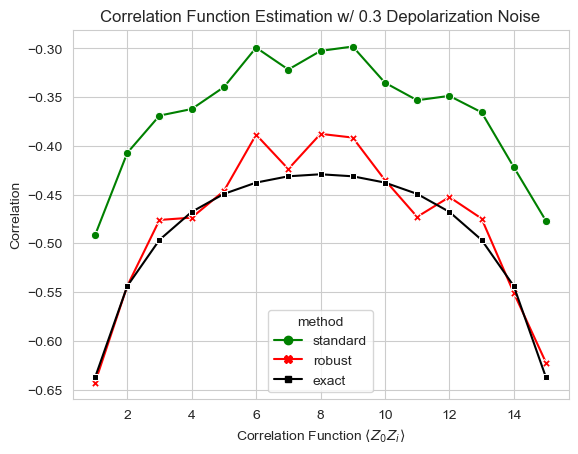
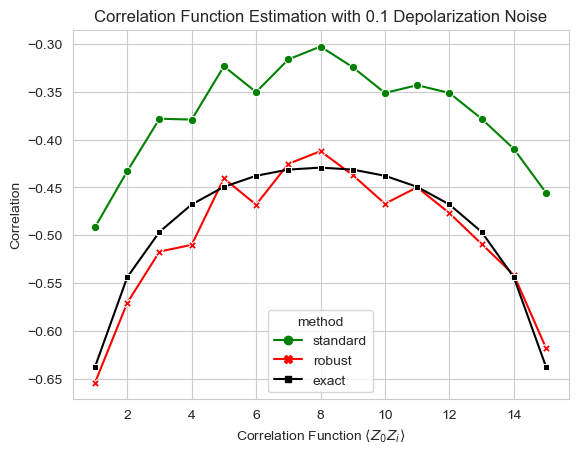
Fetch saved data (for rshadows  ) from https://github.com/Min-Li/mitiq-shadows-storage/tree/main

diff --git a/docs/source/examples/rshadows_tutorial.md b/docs/source/examples/rshadows_tutorial.md
@@ -39,18 +39,15 @@ Whether to run the quantum measurement or directly use the results from the prev
 
 
 ```python
-import zipfile,pickle,io,requests
+import zipfile, pickle, io, requests
 
 run_quantum_processing = False
+repo = "https://github.com/Min-Li/mitiq-shadows-storage/raw/main/"
 if not run_quantum_processing:
-    # Fetch data obtained from a previous run of this tutorial
-    repo = "https://github.com/Min-Li/mitiq-shadows-storage/raw/main/"
-    saved_data_name = 'saved_data-rshadows'
-    url = f'{repo}/{saved_data_name}.zip'
-    response = requests.get(url)
-    zip_data = response.content
-    with zipfile.ZipFile(io.BytesIO(zip_data), 'r') as zf:
-        saved_data = pickle.loads(zf.read(f'{saved_data_name}.pkl'))
+    saved_data_name = "saved_data-rshadows"
+    zip_data = requests.get(f"{repo}/{saved_data_name}.zip").content
+    with zipfile.ZipFile(io.BytesIO(zip_data), "r") as zf:
+        saved_data = pickle.loads(zf.read(f"{saved_data_name}.pkl"))
 ```
 
 The *robust shadow estimation*{cite}`chen2021robust` approach put forth in *Predicting Many Properties of a Quantum System from Very Few Measurements* {cite}`huang2020predicting` exhibits noise resilience. The inherent randomization in the protocol simplifies the noise, transforming it into a Pauli noise channel that can be characterized relatively straightforwardly. Once the noisy channel $\widehat{\mathcal{M}}$ is characterized $\widehat{\mathcal{M}}$, it is incorporated into the channel inversion $\widehat{\mathcal{M}}^{-1}$, resulting in an unbiased state estimator. The sampling error in the determination of the Pauli channel contributes to the variance of this estimator. 
@@ -67,22 +64,31 @@ We focus on the case where $J = g =1$. We use the ground state of such a system 
 
 ```python
 # import groud state of 1-D Ising model w/ periodic boundary condition
-# from tensorflow_quantum.datasets import tfi_chain
-from mitiq.shadows.old.spin_system import tfi_chain, xxz_chain
-
+download_ising_circuits = True
 num_qubits = 8
 qubits: List[cirq.Qid] = cirq.LineQubit.range(num_qubits)
-qbs = cirq.GridQubit.rect(num_qubits, 1)
-circuits, labels, pauli_sums, addinfo = tfi_chain(qbs, "closed")
-lattice_idx = 40  # Critical point where g == 1
-g = addinfo[lattice_idx].g
 
-circuit = circuits[lattice_idx]
-qubit_map = {
-    cirq.GridQubit(i, 0): cirq.LineQubit(i) for i in range(num_qubits)
-}
+if download_ising_circuits:
+    circuit = pickle.loads(
+        requests.get(f"{repo}/1D_Ising_g=1_{num_qubits}qubits.pkl").content
+    )
+    g = 1
 
-circuit = circuit.transform_qubits(qubit_map=qubit_map)
+# or user can import from tensorflow_quantum
+else:
+    from tensorflow_quantum.datasets import tfi_chain
+
+    qbs = cirq.GridQubit.rect(num_qubits, 1)
+    circuits, labels, pauli_sums, addinfo = tfi_chain(qbs, "closed")
+    lattice_idx = 40  # Critical point where g == 1
+    g = addinfo[lattice_idx].g
+
+    circuit = circuits[lattice_idx]
+    qubit_map = {
+        cirq.GridQubit(i, 0): cirq.LineQubit(i) for i in range(num_qubits)
+    }
+
+    circuit = circuit.transform_qubits(qubit_map=qubit_map)
 ```
 
 similar with the classical shadow protocal, we define the executor to perform the computational measurement for the circuit. Here we use the simulator that adds single-qubit depolarizing noise after rotation gates and before the $Z$-basis measurement, as the noise is assumped to be gate independent, time invariant and Markovian, the noisy gate satisfies $U_{\Lambda_U}(M_z)_{\Lambda_{\mathcal{M}_Z}}\equiv U\Lambda\mathcal{M}_Z$:
@@ -136,9 +142,6 @@ The PTM (Pauli Transfer Matrix) or Liouville representation provides a vector re
 ```python
 operator_ptm_vector_rep(cirq.I._unitary_() / np.sqrt(2))
 ```
-
-
-
 
     array([1.+0.j, 0.+0.j, 0.+0.j, 0.+0.j])
 
@@ -238,7 +241,6 @@ plt.xticks(
 plt.ylabel("Pauli fidelity")
 plt.legend()
 ```
-
 ![png](../img/rshadows_compare_channels.png)
 
 
@@ -372,20 +374,26 @@ for noise_level in noise_levels:
     )
 
     experiment_name = f"{num_qubits}qubits_{noise_model}_{noise_level}"
-    shadow_measurement_result = saved_data[experiment_name]["shadow_outcomes"]
-    zero_state_shadow_output = saved_data[experiment_name][
-        "zero_shadow_outcomes"
-    ]
+    if run_quantum_processing:
+        shadow_measurement_result, zero_state_shadow_output = None, None
+    else:
+        shadow_measurement_result = saved_data[experiment_name][
+            "shadow_outcomes"
+        ]
+        zero_state_shadow_output = saved_data[experiment_name][
+            "zero_shadow_outcomes"
+        ]
 
     est_values = compare_shadow_methods(
         circuit=circuit,
         observables=ising_hamiltonian,
-        n_measurements_calibration=40000,
-        n_measurement_shadow=40000,
-        k_shadows=5,
-        locality=2,
+        n_measurements_calibration=60000,
+        n_measurement_shadow=60000,
+        k_shadows=6,
+        locality=3,
         noisy_executor=noisy_executor,
-        k_calibration=2,
+        k_calibration=10,
+        run_quantum_processing=False,
         shadow_measurement_result=shadow_measurement_result,
         zero_state_shadow_output=zero_state_shadow_output,
     )
@@ -443,10 +451,6 @@ df_hamiltonian = df_hamiltonian.reset_index()
 noise_model = "bit_flip"
 ```
 
-    /var/folders/fj/9qx1s04j6n713s58ml36xbbm0000gn/T/ipykernel_99021/1730867588.py:3: FutureWarning: The default value of numeric_only in DataFrameGroupBy.sum is deprecated. In a future version, numeric_only will default to False. Either specify numeric_only or select only columns which should be valid for the function.
-      ).sum()
-
-
 
 ```python
 # Define a color palette
@@ -469,6 +473,7 @@ plt.xlabel("Noise Level")
 plt.ylabel("Energy Value")
 ```
 
+
 ![png](../img/rshadows_energy.png)
 
 ### 3.2 Two Point Correlation Function Estimation with RShadows
@@ -480,16 +485,22 @@ Import groud state of 1-D Ising model with periodic boundary condition
 
 ```python
 num_qubits = 16
-qbs = cirq.GridQubit.rect(num_qubits, 1)
-circuits, labels, pauli_sums, addinfo = tfi_chain(qbs, "closed")
-lattice_idx = 40  # Critical point where g == 1
-g = addinfo[lattice_idx].g
-circuit = circuits[lattice_idx]
 qubits = cirq.LineQubit.range(num_qubits)
-qubit_map = {
-    cirq.GridQubit(i, 0): cirq.LineQubit(i) for i in range(num_qubits)
-}
-circuit = circuit.transform_qubits(qubit_map=qubit_map)
+if download_ising_circuits:
+    circuit = pickle.loads(
+        requests.get(f"{repo}/1D_Ising_g=1_{num_qubits}qubits.pkl").content
+    )
+    g = 1
+else:
+    qbs = cirq.GridQubit.rect(num_qubits, 1)
+    circuits, labels, pauli_sums, addinfo = tfi_chain(qbs, "closed")
+    lattice_idx = 40  # Critical point where g == 1
+    g = addinfo[lattice_idx].g
+    circuit = circuits[lattice_idx]
+    qubit_map = {
+        cirq.GridQubit(i, 0): cirq.LineQubit(i) for i in range(num_qubits)
+    }
+    circuit = circuit.transform_qubits(qubit_map=qubit_map)
 ```
 
 Define obersevables lists as two point correlation functions between the first qubit and the rest of the qubits $\{\langle Z_0 Z_i\rangle\}_{0\geq i\leq n-1}$
@@ -526,12 +537,13 @@ zero_state_shadow_output = saved_data[experiment_name]["zero_shadow_outcomes"]
 est_values = compare_shadow_methods(
     circuit=circuit,
     observables=two_pt_correlation,
-    n_measurements_calibration=40000,
-    n_measurement_shadow=40000,
+    n_measurements_calibration=50000,
+    n_measurement_shadow=50000,
     k_shadows=5,
     locality=2,
     noisy_executor=noisy_executor,
-    k_calibration=2,
+    k_calibration=5,
+    run_quantum_processing=False,
     shadow_measurement_result=shadow_measurement_result,
     zero_state_shadow_output=zero_state_shadow_output,
 )
@@ -596,12 +608,6 @@ plt.title(f"Correlation Function Estimation w/ 0.3 Depolarization Noise")
 plt.xlabel(r"Correlation Function $\langle Z_0Z_i \rangle$")
 plt.ylabel("Correlation")
 ```
-
+ 
 ![png](../img/rshadows_2pt_func.png)
     
-
-** Acknowledgements**
-
-This project contains code adapted from PennyLane's tutorial on Classical Shadows. We would like to acknowledge the original authors of the tutorial, PennyLane developers Brian Doolittle and Roeland Wiersema. The tutorial can be found at [this link](https://pennylane.ai/qml/demos/tutorial_classical_shadows).
-
-

diff --git a/docs/source/guide/shadows-1-intro.md b/docs/source/guide/shadows-1-intro.md
@@ -148,7 +148,7 @@ noisy_executor = partial(
 
 One can simply skip this stage if one just want to perform classical shadow protocal without calibration or the calibration data is already available from previous runs.
 
-Together with the imput of total calibration rounds $R$ = `num_total_measurements_calibration` and the Number of groups of "median of means" used for calibration $K$ = `k_calibration`, one can characterize the noisy quantum channel (see ([rshadow tutorial for cirq](../rshadows_tutorial.md)) for clear explaination) by running the following code:
+Together with the imput of total calibration rounds $R$ = `num_total_measurements_calibration` and the Number of groups of "median of means" used for calibration $K$ = `k_calibration`, one can characterize the noisy quantum channel (see [rshadow tutorial for cirq](../examples/rshadows_tutorial.md) for clear explaination) by running the following code:
 
 
 ```python
@@ -184,13 +184,13 @@ the varible `locality` is the maximum number of qubits that our interested opera
 
 02. `pauli_twirling_calibration`
    - Outcome: A dictionary of `calibration_results`.
-For more details, please refer to the see [rshadow tutorial for cirq](../rshadows_tutorial.md)
+For more details, please refer to the see [rshadow tutorial for cirq](../examples/rshadows_tutorial.md)
 
 ### 1. Quantum Processing
 In this step, we obtain classical shadow snapshots (before apply the invert channel) from the input state
 
 #### 1.1 Add Rotation Gate and Meausure the Rotated State in Computational Basis
-At present, the implementation supports random Pauli measurement. This is equivalent to randomly sampling $U$ from the local Clifford group $Cl_2^n$, followed by a $Z$-basis measurement (see ([shadow tutorial for cirq](../shadows_tutorial.md)) for clear explaination).
+At present, the implementation supports random Pauli measurement. This is equivalent to randomly sampling $U$ from the local Clifford group $Cl_2^n$, followed by a $Z$-basis measurement (see [shadow tutorial for cirq](../examples/shadows_tutorial.md) for clear explaination).
 
 #### 1.2 Get the Classical Shadows
 One can obtain the list of measurement results of local Pauli measurement in terms of bitstrings, and the related Pauli-basis measured in terms of strings by calling the `shadow_quantum_processing` function with given the total number of snapshots `num_total_measurements_shadow`:
